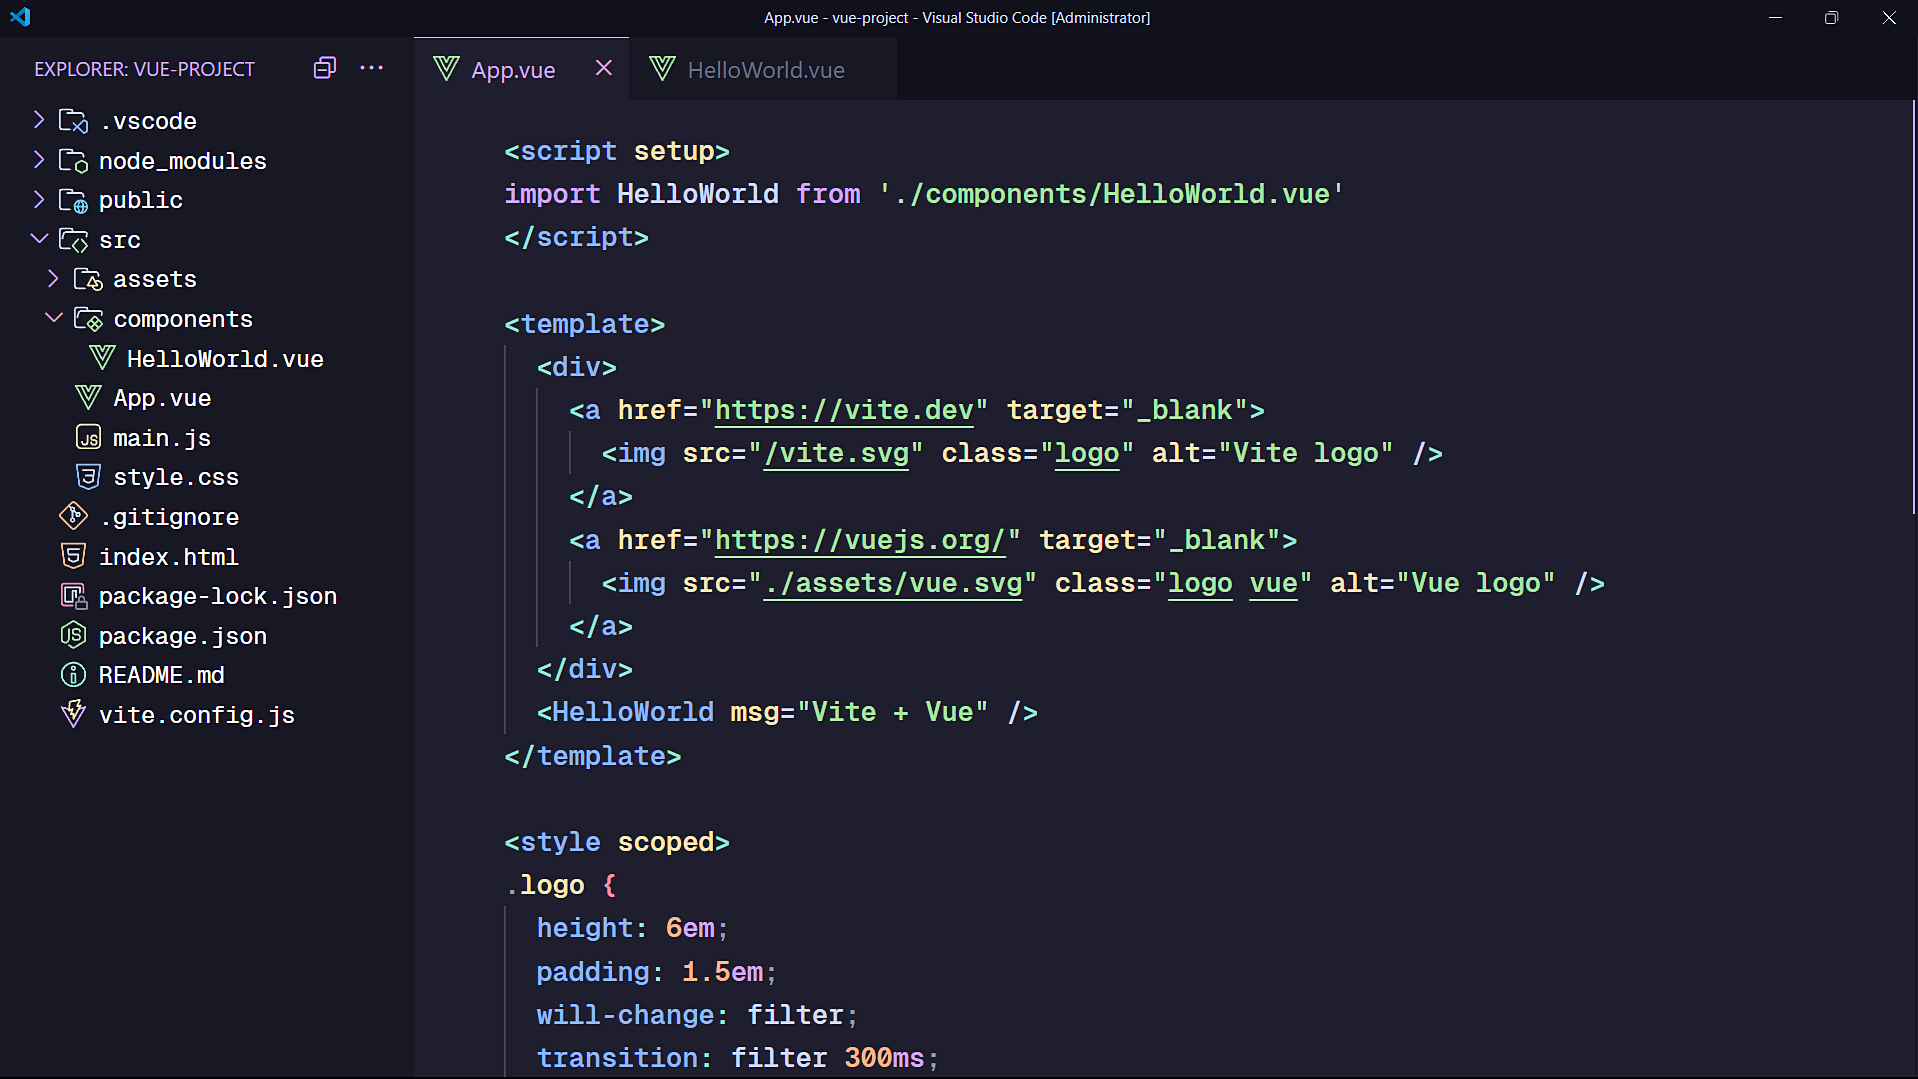
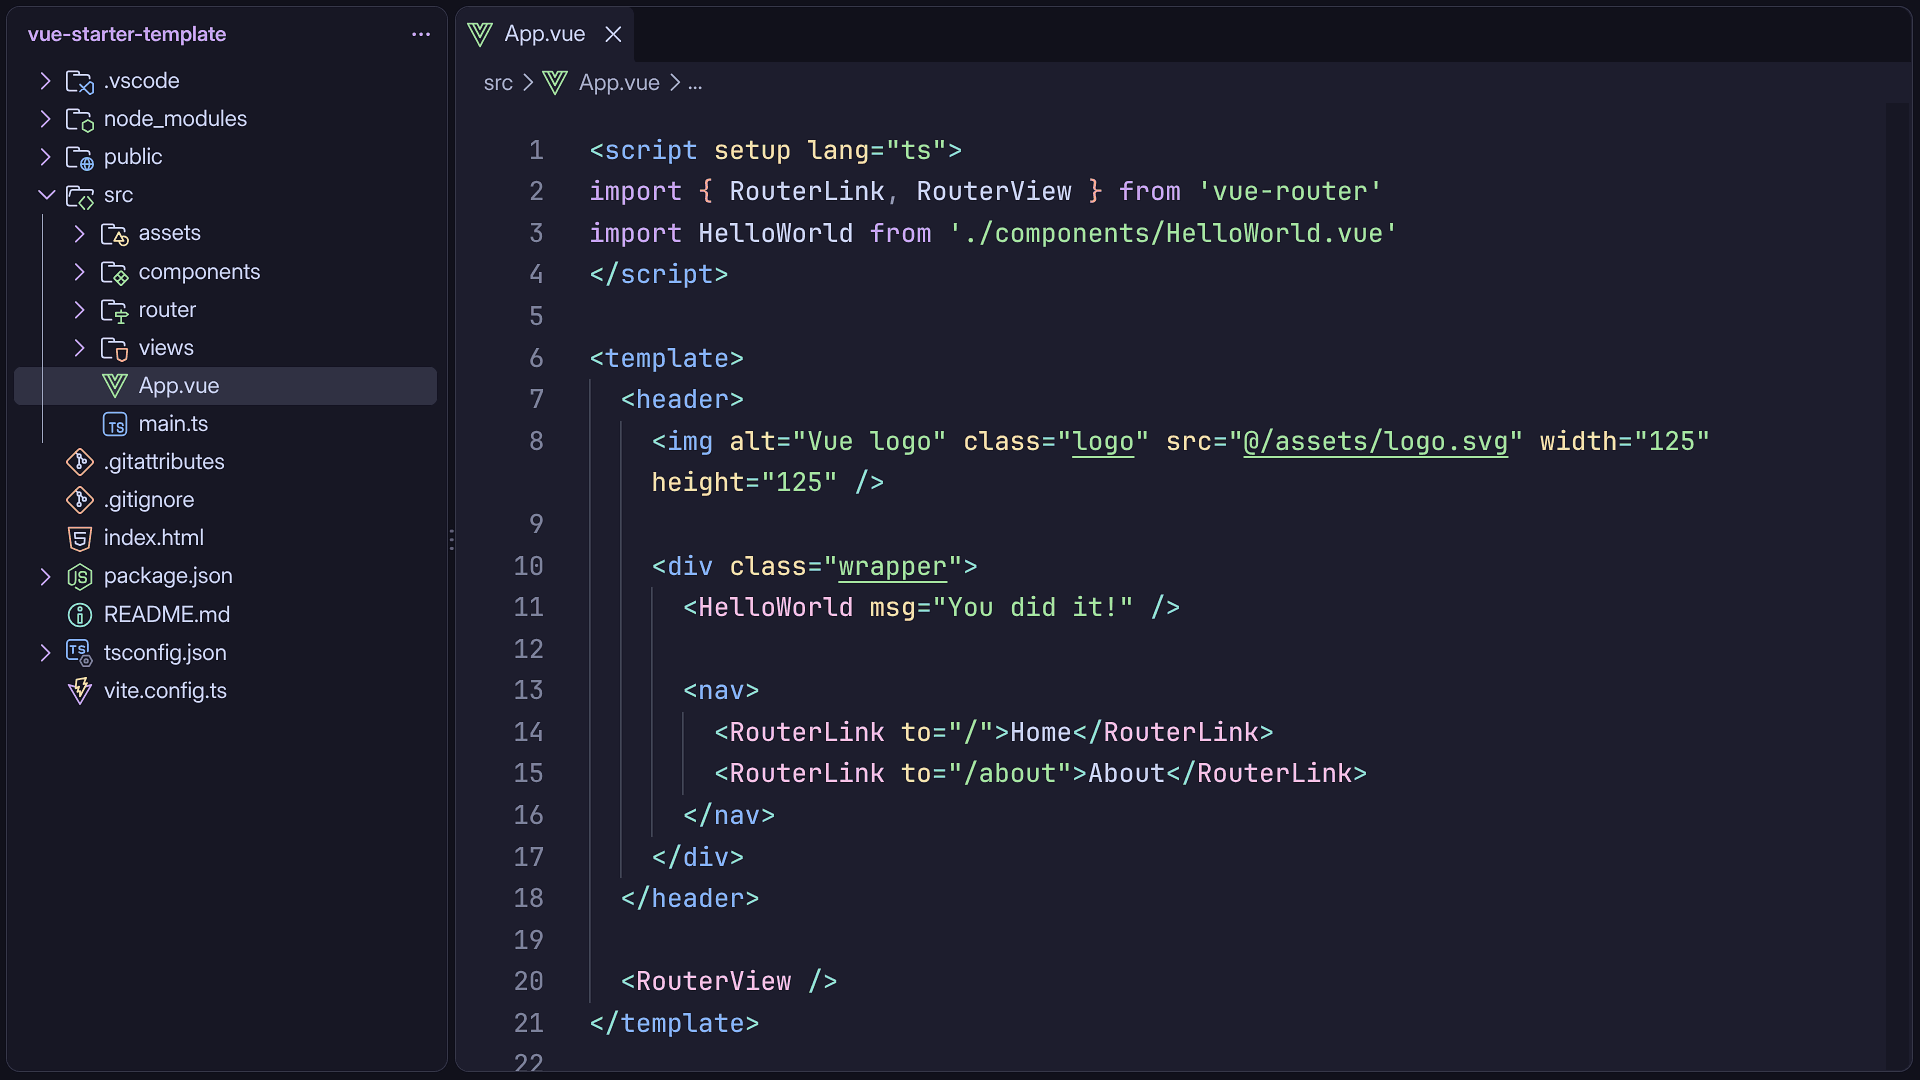
Removed unused extensions

diff --git a/README.md b/README.md
@@ -4,17 +4,17 @@
 
 ## Fonts
 
-- English: <a href="https://www.nerdfonts.com/font-downloads" alt="Nerd Fonts URL">Nerd Fonts</a> <i>(Choose the one you prefer!)</i>
-- Khmer: <a href="https://fonts.google.com/specimen/Kantumruy+Pro" alt="Kantumruy Pro fonts">Kantumruy Pro</a> <i>(free version of Krasar Font!)</i>
+- English: <a href="https://github.com/ryanoasis/nerd-fonts/releases/download/v3.5.1/JetBrainsMono.zip" alt="JetBrainsMono Nerd Font">JetBrainsMono Nerd Font</a> <i>(Or choose the one you prefer!)</i>
+- Khmer: <a href="https://github.com/grab/inter-font-extensions/releases/download/1.0/inter-font-extensions-1.0.zip" alt="Inter Khmer Looped">Inter Khmer Looped</a>
 
 ## Applying Settings
 
 Start applying settings based on your OS: <i>(Each command will backup your old settings in case you need it later.)</i>
 
-### Windows
+### Linux
 
-```powershell
-code --install-extension esbenp.prettier-vscode; code --install-extension Catppuccin.catppuccin-vsc; code --install-extension Catppuccin.catppuccin-vsc-icons; if (Test-Path "$env:APPDATA\Code\User\settings.json") { mv "$env:APPDATA\Code\User\settings.json" "$env:APPDATA\Code\User\settings.json.bak" } else { Write-Host "settings.json not found, skipping backup" }; irm "https://github.com/samithseu/vscode-settings/raw/main/settings.json" -OutFile "$env:APPDATA\Code\User\settings.json"; irm "https://github.com/samithseu/vscode-settings/raw/main/keybindings.json" -OutFile "$env:APPDATA\Code\User\keybindings.json"
+```bash
+code --install-extension esbenp.prettier-vscode && code --install-extension Catppuccin.catppuccin-vsc && code --install-extension Catppuccin.catppuccin-vsc-icons && [ -f "$HOME/.config/Code/User/settings.json" ] && mv "$HOME/.config/Code/User/settings.json" "$HOME/.config/Code/User/settings.json.bak" || echo "settings.json not found, skipping backup" && curl -L -o "$HOME/.config/Code/User/settings.json" "https://github.com/samithseu/vscode-settings/raw/main/settings.json" && curl -L -o "$HOME/.config/Code/User/keybindings.json" "https://github.com/samithseu/vscode-settings/raw/main/keybindings.json"
 ```
 
 ### Mac
@@ -23,15 +23,18 @@ code --install-extension esbenp.prettier-vscode; code --install-extension Catppu
 code --install-extension esbenp.prettier-vscode && code --install-extension Catppuccin.catppuccin-vsc && code --install-extension Catppuccin.catppuccin-vsc-icons && [ -f "$HOME/Library/Application Support/Code/User/settings.json" ] && mv "$HOME/Library/Application Support/Code/User/settings.json" "$HOME/Library/Application Support/Code/User/settings.json.bak" || echo "settings.json not found, skipping backup" && curl -L -o "$HOME/Library/Application Support/Code/User/settings.json" "https://github.com/samithseu/vscode-settings/raw/main/settings.json" && curl -L -o "$HOME/Library/Application Support/Code/User/keybindings.json" "https://github.com/samithseu/vscode-settings/raw/main/keybindings.json"
 ```
 
-### Linux
+### Windows
 
-```bash
-code --install-extension esbenp.prettier-vscode && code --install-extension Catppuccin.catppuccin-vsc && code --install-extension Catppuccin.catppuccin-vsc-icons && [ -f "$HOME/.config/Code/User/settings.json" ] && mv "$HOME/.config/Code/User/settings.json" "$HOME/.config/Code/User/settings.json.bak" || echo "settings.json not found, skipping backup" && curl -L -o "$HOME/.config/Code/User/settings.json" "https://github.com/samithseu/vscode-settings/raw/main/settings.json" && curl -L -o "$HOME/.config/Code/User/keybindings.json" "https://github.com/samithseu/vscode-settings/raw/main/keybindings.json"
+```powershell
+code --install-extension esbenp.prettier-vscode; code --install-extension Catppuccin.catppuccin-vsc; code --install-extension Catppuccin.catppuccin-vsc-icons; if (Test-Path "$env:APPDATA\Code\User\settings.json") { mv "$env:APPDATA\Code\User\settings.json" "$env:APPDATA\Code\User\settings.json.bak" } else { Write-Host "settings.json not found, skipping backup" }; irm "https://github.com/samithseu/vscode-settings/raw/main/settings.json" -OutFile "$env:APPDATA\Code\User\settings.json"; irm "https://github.com/samithseu/vscode-settings/raw/main/keybindings.json" -OutFile "$env:APPDATA\Code\User\keybindings.json"
 ```
 
 ## Result
 
-<img src="SAMPLE.png" />
+<figure>
+  <img src="SAMPLE.png" />
+  <figcaption>Screenshot of fullscreen mode in vscode on Fedora</figcaption>
+</figure>
 
 ## Other
 
@@ -39,66 +42,54 @@ code --install-extension esbenp.prettier-vscode && code --install-extension Catp
   <summary>Personal extensions only! <i>(optional)</i> </summary>
   
   ```bash
-  echo "adpyke.codesnap
-amiralizadeh9480.laravel-extra-intellisense
-antfu.goto-alias
+  echo "antfu.goto-alias
+antfu.slidev
 astro-build.astro-vscode
-bmewburn.vscode-intelephense-client
 bradlc.vscode-tailwindcss
 catppuccin.catppuccin-vsc
 catppuccin.catppuccin-vsc-icons
-codingyu.laravel-goto-view
+continue.continue
 csstools.postcss
-damms005.devdb
 dart-code.dart-code
 dart-code.flutter
 davidanson.vscode-markdownlint
 dbaeumer.vscode-eslint
-diemasmichiels.emulate
 dsznajder.es7-react-js-snippets
 ecmel.vscode-html-css
-editorconfig.editorconfig
 esbenp.prettier-vscode
 formulahendry.auto-rename-tag
-github.copilot
-github.copilot-chat
-glitchbl.laravel-create-view
+github.codespaces
+github.vscode-github-actions
+golang.go
 goopware.raythis
-ihunte.laravel-blade-wrapper
+jkjustjoshing.vscode-text-pastry
 jock.svg
-mark-wiemer.vscode-autohotkey-plus-plus
-mehedidracula.php-namespace-resolver
-mikestead.dotenv
 ms-python.debugpy
 ms-python.python
 ms-python.vscode-pylance
 ms-python.vscode-python-envs
-ms-vscode.cmake-tools
-ms-vscode.cpptools
-ms-vscode.cpptools-extension-pack
-ms-vscode.cpptools-themes
+ms-toolsai.jupyter
+ms-toolsai.jupyter-keymap
+ms-toolsai.jupyter-renderers
+ms-toolsai.vscode-jupyter-cell-tags
+ms-toolsai.vscode-jupyter-slideshow
 myriad-dreamin.tinymist
-naoray.laravel-goto-components
 naumovs.color-highlight
 nuxt.mdc
 nuxtr.nuxt-vscode-extentions
 nuxtr.nuxtr-vscode
-onecentlin.laravel-blade
-onecentlin.laravel-extension-pack
-onecentlin.laravel5-snippets
-pgl.laravel-jump-controller
+quicktype.quicktype
 qwtel.sqlite-viewer
-ritwickdey.liveserver
-ryannaddy.laravel-artisan
-shufo.vscode-blade-formatter
+robert-brunhage.flutter-riverpod-snippets
+rust-lang.rust-analyzer
 sleistner.vscode-fileutils
-supermaven.supermaven
+streetsidesoftware.code-spell-checker
 tamasfe.even-better-toml
+tauri-apps.tauri-vscode
 tomoki1207.pdf
 vscjava.vscode-gradle
 vue.volar
 yoavbls.pretty-ts-errors
-quicktype.quicktype
 " | xargs -n 1 code --install-extension
   ```
 </details>
